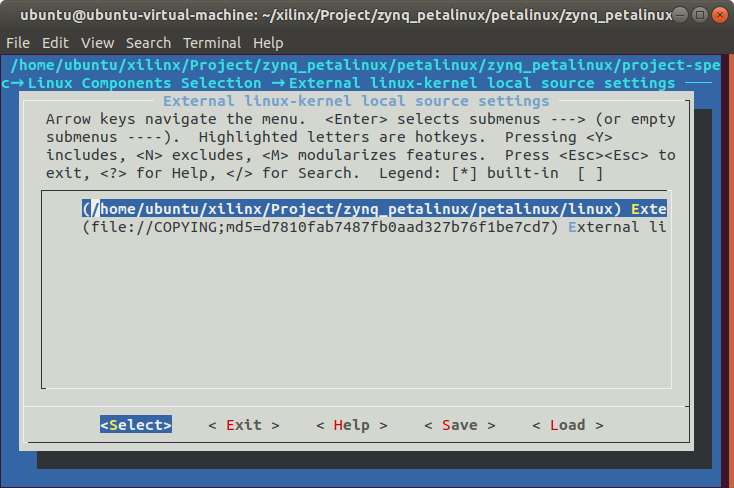
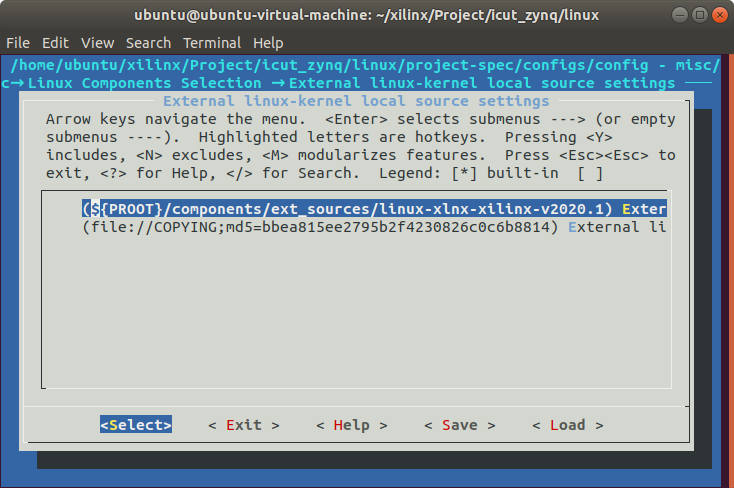
ZYNQ: Modify the petalinux note and correct some errors.

Changed region(s): [[0.1199, 0.3996, 0.8992, 0.4918], [0.03, 0.0, 0.9292, 0.0615], [0.3597, 0.123, 0.9891, 0.1537]]

diff --git a/FPGA/Xilinx/ZYNQ/ZYNQ.md b/FPGA/Xilinx/ZYNQ/ZYNQ.md
@@ -403,7 +403,7 @@ set_property IOSTANDARD LVCMOS33 [get_ports sys_rst_n]
 #### 集成逻辑分析仪
   Vivado中有一个集成逻辑分析仪（Integrated Logic Analyzer，ILA），以IP核的形式加入到用户设计中。Vivado提供了三种具有不同集成层次的插入ILA方法，以满足不同用户的需求。
 1. HDL实例化调试探针流程：直接在HDL代码中例化一个ILA IP核。这是集成层次最高的方法，但灵活性较差，在调试完毕后，需要在HDL源码中删除ILA IP核。
-2. 网表插入调试探针流程：在综合后的网表中，分别标记要进行调试观察的各个信号，然后通过一个简单的”Setup Debug“向导来设置各个探针和ILA IP核的工作参数，然后工具会根据用户设置的参数，自动地生成各个ILA IP核。用户不需要修改HDL源码，并能单独控制每个ILA IP核以及每个探针，具有很大的灵活性。用户设置的调试信息会议Tcl XDC调试命令的形式保存到XDC约束文件中，在实现阶段，Vivado会读取这些XDC调试命令，并在布局布线时加入这些ILA IP核。在调试完毕后，用户可以自综合后的网表中删除ILA IP核，或者在XDC文件中删除调试命令。
+2. 网表插入调试探针流程：在综合后的网表中，分别标记要进行调试观察的各个信号，然后通过一个简单的”Setup Debug“向导来设置各个探针和ILA IP核的工作参数，然后工具会根据用户设置的参数，自动地生成各个ILA IP核。用户不需要修改HDL源码，并能单独控制每个ILA IP核以及每个探针，具有很大的灵活性。用户设置的调试信息会以Tcl XDC调试命令的形式保存到XDC约束文件中，在实现阶段，Vivado会读取这些XDC调试命令，并在布局布线时加入这些ILA IP核。在调试完毕后，用户可以自综合后的网表中删除ILA IP核，或者在XDC文件中删除调试命令。
 3. 手动在XDC约束文件中书写对应的Tcl XDC调试命令，之后同上。这种方法集成层次最低，一般不会使用。
 
 ##### HDL实例化调试探针流程
@@ -446,6 +446,7 @@ ila_0 u_ila_0 (
 一. 在综合后的网表中手动选择网络并点击”mark_debug“按钮，将要进行调试观察的各个信号标记”mark_debug“属性，然后通过”Setup Debug“向导来设置ILA IP核的参数，最后工具会根据参数来自动创建ILA IP核。
 二. 在综合前在HDL代码中为想要观察的reg或wire信号添加”Mark Debug“综合属性，紧挨在变量声明的前面使用”(\* mark_debug = "true" \*)“标记，这些信号不会被工具优化掉。
   若使用第二种方法添加”Mark Debug“属性，则修改代码如下：
+
 ```verilog
 module led_twinkle(
     input sys_clk,
@@ -459,7 +460,7 @@ module led_twinkle(
   点击Flow Navigation-->SYNTHESIS-->Run Synthesis进行综合，完成后点击Open Synthesized Design打开综合后的设计窗口，点击右上角的窗口布局选择器，选择“Debug”窗口布局。此时，Vivado打开了Netlist子窗口、Schematic子窗口以及Debug子窗口，如下图所示：
 ![Synthesized Design ILA](pic/Synthesized Design ILA.PNG)
 
-  Netlist子窗口和Schematic子窗口都可以用于标记要进行观察的信号，Debug子窗口用于显示并设置ILA IP核的各个参数。在Debug子窗口中又包含Debug Cores核Debug Nets两个选项卡，用于显示所有标记为”Mark Debug“的信号。Debug Cores以ILA IP核为中心，所有标记为”Mark Debug“的信号并且已经被分配到ILA探针的信号都会被显示在各个ILA IP核的视图树下，否则显示在Unassigned Debug Nets下。Debug Nets不显示ILA IP核，所有标记为”Mark Debug“的信号并且已经被分配到ILA探针的信号都会被显示Assigned Nets下，否则显示在Unassigned Debug Nets下。在HDL代码中已经添加了”Mark Debug“属性的信号会自动出现在Unassigned Debug Nets下。
+  Netlist子窗口和Schematic子窗口都可以用于标记要进行观察的信号，Debug子窗口用于显示并设置ILA IP核的各个参数。在Debug子窗口中又包含Debug Cores和Debug Nets两个选项卡，用于显示所有标记为”Mark Debug“的信号。Debug Cores以ILA IP核为中心，所有标记为”Mark Debug“的信号并且已经被分配到ILA探针的信号都会被显示在各个ILA IP核的视图树下，否则显示在Unassigned Debug Nets下。Debug Nets不显示ILA IP核，所有标记为”Mark Debug“的信号并且已经被分配到ILA探针的信号都会被显示Assigned Nets下，否则显示在Unassigned Debug Nets下。在HDL代码中已经添加了”Mark Debug“属性的信号会自动出现在Unassigned Debug Nets下。
 
   若之前没有使用第二种方法添加”Mark Debug“属性，则需要手动标记要进行观察的信号。在Netlists子窗口或Schematic子窗口中，右键要添加标记的网络（此时另一个子窗口中也会自动选中此网络）并选择Mark Debug（或Unmark Debug取消标记），如下图所示：
 ![Mark Debug ILA](pic/Mark Debug ILA.png)
@@ -488,7 +489,7 @@ module led_twinkle(
   打开led_twinkle.xdc，可以看到增加了一些用于debug的约束命令。接下来就可以实现设计，Vivado会读取这些约束，并按照这些命令的参数来自动加入ILA IP核。最后生成比特流，下载并观察信号。
 ![led_twinkle.xdc ILA](pic/led_twinkle.xdc ILA.PNG)
 
-  调试完毕后，可以删除led_twinkle.v源代码中信号的Mark Debug属性核XDC文件中包含的Tcl调试命令。
+  调试完毕后，可以删除led_twinkle.v源代码中信号的Mark Debug属性和XDC文件中包含的Tcl调试命令。
 
 #### 仿真
   根据下图所示的FPGA设计流程，在设计输入之后、设计综合之前进行RTL仿真，成为综合前仿真，也称为前仿真或功能仿真，主要验证电路的功能是否符合设计要求，不考虑电路门延迟和线延迟。在完成设计代码编写后，直接对HDL代码进行仿真，检测源代码是否符合功能要求，可以比较直观的观察波形的变化，在设计的最初阶段发现问题。
@@ -1264,6 +1265,7 @@ void timer_intr_handler(void *callback_ref)
 }
 ```
 
+##### TTC
 ##### XADC
   ZYNQ PL端有一个数模混合模块XADC，包含两个12位ADC（转换速率可以达到1MSPS）、一个模拟多路复用器（支持最多17路外部模拟输入信号的测量，且支持单极、双极和差分等信号类型）、片上温度和电压传感器（可以测量芯片工作时的温度和供电电压）。XADC提供了多种接口供外部模块访问，PL中有JTAG和DRP（Dynamic Reconfiguration Port）接口，PS中有PS-XADC接口（同PL-JTAG一样使用串行路径，速度慢，但不需要对PL编程）或通过M_AXI_GP接口（使用DRP的并行路径，速度快，但需要在PL中调用AXI XADC IP核）。PL-JTAG和PS-XADC不能同时使用，但它们都可以和DRP接口并用。
 ![XADC Module System Viewpoint](pic/XADC Module System Viewpoint.PNG)
@@ -2322,7 +2324,7 @@ set_property PACKAGE_PIN L14 [get_ports TMDS_0_tmds_clk_p]
 ##### FreeRTOS
 
 ##### LwIP
-  PS拥有两个千兆以太网控制器（GEM），实现了标准10/100/1000Mb/s以太网MAC，使用MDIO接口管理PHY芯片，通过MIO连接到PS端的PHY芯片时使用GMII接口，通过EMIO连接到PL端的PHY芯片时使用RGMII接口。
+  PS拥有两个千兆以太网控制器（GEM），实现了标准10/100/1000Mb/s以太网MAC，使用MDIO接口管理PHY芯片，通过MIO连接到PS端的PHY芯片时使用RGMII接口，通过EMIO连接到PL端的PHY芯片时使用GMII接口。
 
 ###### 硬件设计
   参考嵌入式开发流程新建Vivado工程，名称为lwip，添加ZYNQ Processing System，配置DDR3、UART和ENET，移除PL部分接口，点击OK完成。
@@ -2341,14 +2343,14 @@ set_property PACKAGE_PIN L14 [get_ports TMDS_0_tmds_clk_p]
   编译、下载、调试，使用TCP客户端向开发板发送信息，开发板将原封不动发送回去。
 
 ##### 自定义IP核
-  IP核的接口（Interface）一个或多个端口（Ports）组成，不同类型的信号需要不同的接口。
+  IP核的接口（Interface）由一个或多个端口（Ports）组成，不同类型的信号需要不同的接口。
   在主页Tasks下点击Manage IP-->New IP Location或菜单栏File-->IP-->New Location，在弹出的窗口点击Next，设置工程路径，其他先不管。
 ![New IP Location](pic/New IP Location.PNG)
 
   点击FInish完成，打开工程管理界面。
 ![IP Project Manager](pic/IP Project Manager.PNG)
 
-  点击菜单栏Tools-->Create and Package New IP打开创建的封装IP向导，点击Next。接下来可以选择封装IP或者创建一个带AXI4接口的IP核。
+  点击菜单栏Tools-->Create and Package New IP打开创建和封装新IP向导，点击Next。接下来可以选择封装IP或者创建一个带AXI4接口的IP核。
 ![Create a new AXI4 peripheral](pic/Create a new AXI4 peripheral.PNG)
 
 ###### 封装IP
@@ -2376,7 +2378,7 @@ set_property PACKAGE_PIN L14 [get_ports TMDS_0_tmds_clk_p]
   由于最开始错误地识别了顶层模块，多出了reset和paralell_clk，右键选择Remove Interface移除，此时左侧红色感叹号变成黄色。另外工具错误地将tmds_clk_n和tmds_clk_p识别成了两个时钟接口，需要移除，此时左侧黄色感叹号也消失了。
 ![Ports and Interfaces new DVI_TX](pic/Ports and Interfaces new DVI_TX.PNG)
 
-  右键pclk选择Add Bus Interface，弹出Add Interface窗口，点击General页面Interface Definition右侧...按钮，搜索clock，选中Signal下的clock_ctrl，点击OK。
+  右键pclk选择Add Bus Interface，弹出Add Interface窗口，点击General页面Interface Definition右侧...按钮，搜索clock，选中Signal下的clock_rtl，点击OK。
 ![Interface Definition Chooser DVI_TX](pic/Interface Definition Chooser DVI_TX.PNG)
 
   设置接口名称为pclk，模式为slave，表示输入信号。
@@ -2605,16 +2607,13 @@ A[BootROM]-->B[FSBL]
 |petalinux-boot|启动系统以测试|
 
 #### 使用PetaLinux定制系统
-##### 使用Vivado创建硬件平台
-##### 使用PetaLinux创建系统工程
-###### 创建PetaLinux工程
+##### 创建PetaLinux工程
   创建PetaLinux工程zynq_petalinux，-t指定创建类型为project，--template指定平台模板为zynq，-n指定工程名称。
 ```shell
-mkdir zynq_petalinux
 petalinux-create -t project --template zynq -n zynq_petalinux
 ```
 
-###### 配置PetaLinux工程
+##### 配置PetaLinux工程
   首次配置PetaLinux工程时或硬件改动后，需要导入XSA文件，--get-hw_description指定XSA文件所在位置。后面想要重新配置，只需输入petalinux-config即可。
 ```shell
 cd zynq_petalinux
@@ -2687,7 +2686,7 @@ wget -c -r -np -nH -R index.html -P /home/ubuntu/xilinx/Project/zynq_petalinux/p
 
   设置完成后保存退出，PetaLinux会根据Auto Config Settings和Subsystem AUTO Hardware Settings来解析硬件描述文件，以获取更新设备树、u-boot配置文件和内核配置文件所需的硬件信息。
 
-###### 配置Linux内核
+##### 配置Linux内核
 ```shell
 petalinux-config -c kernel
 ```
@@ -2695,7 +2694,7 @@ petalinux-config -c kernel
   等待一段时间后，弹出Linux内核配置界面，保持默认，直接保存退出。
 ![Kernel Configuration](pic/Kernel Configuration.png)
 
-###### 配置Linux根文件系统
+##### 配置Linux根文件系统
 ```shell
 petalinux-config -c rootfs
 ```
@@ -2703,9 +2702,10 @@ petalinux-config -c rootfs
   弹出根文件系统配置界面，PetaLinux RootFS Settings可以用来设置root用户密码，默认为root。
 ![rootfs configuration](pic/rootfs configuration.png)
 
-###### 配置设备树文件
-  软件自动在components/plnx_workspace/device-tree/device-tree/下生成了默认的设备树，用户不需要修改，其中system-top.dts是顶层设备树（包含了zynq-7000.dtsi、pl.dtsi、pcw.dtsi和system-user.dtsi以及一些基础硬件信息），zynq-7000.dtsi是根据硬件平台文件XSA自动配置的设备树（包含了大部分设备信息），pl.dtsi是与pl相关的设备树，pcw.dtsi（TODO）。
-  在project-spec/meta-user/recipes-bsp/device-tree/files/system-user.dtsi是用户设备树，可以自定义一些设备，如果重复定义了设备将会覆盖默认的配置。打开该文件，添加如下配置信息。
+##### 配置设备树文件
+  软件自动在components/plnx_workspace/device-tree/device-tree/下生成了默认的设备树，用户不需要修改，其中system-top.dts是顶层设备树（包含了zynq-7000.dtsi、pl.dtsi、pcw.dtsi和system-user.dtsi以及一些基础硬件信息），zynq-7000.dtsi包含了一些设备的默认配置信息（不允许修改），pl.dtsi是与pl相关的设备树，pcw.dtsi（TODO）。
+  system-user.dtsi是用户设备树，在project-spec/meta-user/recipes-bsp/device-tree/files/下，可以自定义一些设备，如果重复定义了设备将会覆盖默认的配置。打开该文件，添加如下配置信息。
+
 ```c
 /include/ "system-conf.dtsi"
 
@@ -2828,7 +2828,7 @@ petalinux-config -c rootfs
 };
 ```
 
-###### 编译PetaLinux工程
+##### 编译PetaLinux工程
   编译整个PetaLinux工程，生成设备树DTB文件、FSBL文件、u-boot、kernel、启动脚本和根文件系统映像（images目录下）。
 ```shell
 petalinux-build
@@ -2857,7 +2857,7 @@ INFO: copy to TFTP-boot directory is not enabled !!
 
 ![petalinux-build files](pic/petalinux-build files.png)
 
-###### 制作BOOT.BIN启动文件
+##### 制作BOOT.BIN启动文件
   ZYNQ的启动文件BOOT.BIN一般包含FSBL文件、bitstream文件和u-boot文件。
 ```shell
 petalinux-package --boot --fsbl ./images/linux/zynq_fsbl.elf --fpga --u-boot --force
@@ -2880,7 +2880,7 @@ INFO: Generating Zynq binary package BOOT.BIN...
 INFO: Binary is ready.
 ```
 
-###### 制作SD启动卡
+##### 制作SD启动卡
   使用fdisk命令为SD卡创建分区，第一个分区为FAT32格式，大小为500M，设为引导分区；剩下的空间作为第二分区，ext4格式。
 ```shell
 sudo fdisk /dev/sdb
@@ -2970,7 +2970,7 @@ sudo mkfs.ext4 -L rootfs /dev/sdb2
 
   挂载分区，并拷贝boot.scr、BOOT.BIN和image.ub到BOOT分区。
 
-###### 启动测试
+##### 启动测试
 * QEMU模拟启动
   首先使用petalinux-package命令打包预编译镜像。
 ```shell
@@ -2998,6 +2998,99 @@ PetaLinux 2020.1 zynq_petalinux /dev/ttyPS0
 zynq_petalinux login:
 ```
 
+#### Linux系统移植
+  一个完整的Linux系统包含U-Boot、kernel和rootfs，使用PetaLinux搭建Linux系统时，隐藏了很多细节，不利于学习，还需要手动移植，才能更好地理解Linux系统的工作原理。
+
+##### U-Boot移植
+  参考笔记[U-Boot](../../../U-Boot/U-Boot.md)，学习相关知识。
+  半导体厂商[Xilinx](https://github.com/Xilinx)提供了[u-boot-xlnx](https://github.com/Xilinx/u-boot-xlnx)，在U-Boot官方源码的基础上，添加对其芯片的支持并维护（最好使用与PetaLinux对应的版本，否则可能出现一些问题，本文使用u-boot-xlnx-xilinx-v2020.1版本）。
+  开发板厂商[正点原子](https://gitee.com/greatdream)提供了[ZYNQ-uboot](https://gitee.com/greatdream/uboot.git)，在Xilinx的基础上，对其开发板进行了适配，如显示驱动。
+  PetaLinux默认使用官方U-Boot源码（u-boot-xlnx），可以在Linux Componets Selection下改为remote或ext-local-src。
+![PetaLinux U-Boot Source Selection](pic/PetaLinux U-Boot Source Selection.png)
+
+**remote**
+  使用远程U-Boot git仓库的源码。
+  选择remote后，在Linux Componets Selection界面会出现一项Remote u-boot settings，内容如下：
+
+* Remote u-boot git URL
+  远程git仓库地址，格式如下：
+```shell
+git://github.com/Xilinx/u-boot-xlnx.git;protocol=https
+```
+
+  注意：URL前面的“https”要改成“git”，然后用“protocol=https”指定协议类型。
+
+* Remote u-boot git TAG/Commit ID
+  指定远程git仓库中的tag或Commit ID，必须设置为下面中的一个：
+
+1. 指向当前HEAD。
+```shell
+{$AUTOREV}
+```
+
+2. 指向某一tag。
+```shell
+tag/mytag
+```
+
+3. 指向某一commit id。
+```shell
+commit id sha key
+```
+
+* Remote u-boot git BRANCH
+  选择远程git仓库的分支。
+
+* Remote u-boot license checksum
+  设置远程git仓库的许可证信息（许可证文件为U-Boot源码根目录下的README，使用md5sum命令计算其md5值），如果没有编译时进行检查会报错，格式如下：
+```shell
+file://README;md5=caafa7f3ca54deaa3a087f3b5345ba8e
+```
+
+  最终设置如图所示：
+![Remote u-boot settings](pic/Remote u-boot settings.png)
+
+**ext-local-src**
+  使用本地的源码：首先下载U-Boot源码，然后在components下新建ext_sources文件夹，解压U-Boot源码到u-boot-xlnx-xilinx-v2020.1文件夹下。
+  选择ext-local-src后，在Linux Componets Selection界面会出现一项External  u-boot source settings，内容如下：
+
+* External u-boot local source path
+  指定本地U-Boot源码路径，必须使用绝对路径，否则会报错。也可以使用“${PROOT}”环境变量，表示当前工程路径，后面再加上相对工程内的路径，格式如下：
+```shell
+${PROOT}/components/ext_sources/u-boot-xlnx-xilinx-v2020.1
+```
+
+  最终设置如图所示：
+![External u-boot local source settings](pic/External u-boot local source settings.png)
+
+  执行“petalinux-build -c u-boot”编译，完成后会在images/linux目录下生成u-boot.elf文件。然后执行“petalinux-package --boot --fsbl --fpga --u-boot --force”将u-boot.elf打包到ZYNQ的启动文件BOOT.BIN中，将该文件拷贝到SD卡的第一个FAT32分区，插到开发板并从SD卡启动。
+
+**注：**
+
+* 编译时会在“build/tmp/work/zynq_generic-xilinx-linux-gnueabi/u-boot-xlnx/v2020.01-xilinx-v2020.1+git999-r0/u-boot-xlnx-v2020.01-xilinx-v2020.1+git999”目录下生成.config文件，是U-Boot最终的配置文件。
+
+##### Kernel移植
+  半导体厂商[Xilinx](https://github.com/Xilinx)提供了[linux-xlnx](https://github.com/Xilinx/linux-xlnx.git)，在Kernel官方源码的基础上，添加对其芯片的支持并维护（最好使用与PetaLinux对应的版本，否则可能出现一些问题，本文使用linux-xlnx-xilinx-v2020.1版本）。
+  开发板厂商[正点原子](https://gitee.com/greatdream)提供了[ZYNQ-linux](https://gitee.com/greatdream/linux.git)，在Xilinx的基础上，对其开发板进行了适配，如显示驱动。
+  PetaLinux默认使用官方Kernel源码（linux-xlnx），可以在Linux Componets Selection下改为remote或ext-local-src。
+  设置方法与U-Boot类似，只是最后设置内核许可证信息不同（许可证文件为内核源码根目录下的COPYING，使用md5sum命令计算其md5值），如果没有编译时进行检查会报错（do_populate_lic: QA Issue: linux-xlnx: The LIC_FILES_CHKSUM does not match），格式如下：
+
+```shell
+file://COPYING;md5=bbea815ee2795b2f4230826c0c6b8814
+```
+
+  最终设置如图所示：
+![Remote linux-kernel settings](pic/Remote linux-kernel settings.png)
+![External linux-kernel local source settings](pic/External linux-kernel local source settings.png)
+
+  修改了内核来源后，需要先清除之前的内核配置，默认的内核源码位于/home/ubuntu/xilinx/Project/zynq_petalinux/petalinux/zynq_petalinux/components/yocto/workspace/sources/linux-xlnx，执行以下命令会清空所有源码。
+```shell
+petalinux-build -c linux-xlnx -x reset
+```
+![petalinux-config -c kernel](pic/petalinux-config -c kernel.png)
+
+#### Linux驱动开发
+
 #### 使用Vitis开发Linux应用
   创建平台项目zynq_petalinux_bsp，操作系统选择linux，点击Finish完成，编译。
 ![zynq_petalinux_bsp platform](pic/zynq_petalinux_bsp platform.png)
@@ -3013,17 +3106,8 @@ zynq_petalinux login:
 petalinux-config
 ```
 
-  修改Linux内核来源，可以选择remote并设置URL为远程仓库（[Xilinx](https://github.com/Xilinx)提供的[linux-xlnx](https://github.com/Xilinx/linux-xlnx.git)或[正点原子](https://gitee.com/greatdream)提供的[ZYNQ-linux](https://gitee.com/greatdream/linux.git)。也可以将源码下载到本地，然后选择ext-local-src并指定本地路径。另外需要设置内核许可证信息（许可证文件为内核源码根目录下的COPYING，使用md5sum命令计算其md5值），否则编译时进行检查会报错（do_populate_lic: QA Issue: linux-xlnx: The LIC_FILES_CHKSUM does not match），保存并退出。
-![External linux-kernel local source settings](pic/External linux-kernel local source settings.png)
-
-  修改u-boot来源，可以选择remote并设置URL为远程仓库（[Xilinx](https://github.com/Xilinx)提供的[u-boot-xlnx](https://github.com/Xilinx/u-boot-xlnx)或[正点原子](https://gitee.com/greatdream)提供的[ZYNQ-uboot](https://gitee.com/greatdream/uboot.git)）。也可以将源码下载到本地，然后选择ext-local-src并指定本地路径。另外还需要设置u-boot许可证信息（许可证文件为u-boot源码根目录下的README，使用md5sum命令计算其md5值），否则编译时进行检查会报错，保存并退出。
-![External u-boot local source settings](pic/External u-boot local source settings.png)
-
-  修改了内核来源后，需要先清除之前的内核配置，默认的内核源码位置位于/home/ubuntu/xilinx/Project/zynq_petalinux/petalinux/zynq_petalinux/components/yocto/workspace/sources/linux-xlnx，执行以下命令会清空所有源码。
-```shell
-petalinux-build -c linux-xlnx -x reset
-```
-![petalinux-config -c kernel](pic/petalinux-config -c kernel.png)
+  参考[U-Boot移植](# U-Boot移植)，使用原子提供的alientek-uboot-2018.01-xlnx-v2018.3。
+  参考[Kernel移植](# Kernel移植)，使用原子提供的alientek-linux-4.14.0-xlnx-v2018.3。
 
   重新配置内核，进入Device Drivers-->Graphics support菜单，选择显示驱动为原子提供的选项。
 ```shell
@@ -3032,7 +3116,7 @@ petalinux-config -c kernel
 ![Kernel Graphics support](pic/Kernel Graphics support.png)
 
   在开始编译之前，还需要做一些修改，防止出错：
-* 1. 在“/ project-spec/meta-user/recipes-kernel/linux/ linux-xlnx\_%.bbappend”文件内加入KERNEL_VERSION_SANITY_SKIP="1"，避免由于PetaLinux版本和内核版本不匹配而报错。
+* 1. 在“/ project-spec/meta-user/recipes-kernel/linux/linux-xlnx\_%.bbappend”文件内加入KERNEL_VERSION_SANITY_SKIP="1"，避免由于PetaLinux版本和内核版本不匹配而报错。
   注意：若petalinux-config--> DTG 配置保持默认的 template 选项，工具不会自动新建 project-spec/meta-user/recipes-kernel/linux 文件夹，我们需要手动创建 linux-xlnx\_%.bbappend文件并添加如下内容。
 ```shell
 FILESEXTRAPATHS_prepend := "${THISDIR}/files:"
@@ -3310,7 +3394,10 @@ current_time *= REFACTOR_TO_US; // Convert to us
 * [使用Petalinux定制Linux系统](https://www.cnblogs.com/Mike2019/p/14293018.html)
 * [ZYNQ #0 petalinux的使用与工程建立](https://blog.csdn.net/sements/article/details/88921275)
 * [XILINX 文档门户](https://docs.xilinx.com/home)
+* [Xilinx Wiki](https://xilinx-wiki.atlassian.net/wiki/spaces/A/overview?homepageId=18844350)
 * [Zynq的启动过程及加密](https://mbb.eet-china.com/forum/topic/74770_1_1.html)
 * [使用Xilinx XSCT工具进行烧录](https://blog.csdn.net/u013706212/article/details/120975147)
 * [xilinx zynq的fsbl阶段的调试](https://blog.csdn.net/suixintt/article/details/107211149?spm=1001.2014.3001.5506)
 * [ZYNQ开发系列——SDK输出串口选择以及打印函数print、printf、xil_printf的差别](https://blog.csdn.net/gzy0506/article/details/124085448)
+* [zynq或zynqmp通过emio和gmii to rgmii ip使用pl端以太网调试](https://blog.csdn.net/weixin_43969075/article/details/119872875)
+* [ZYNQ+linux网口调试笔记（2）PS-GEM1](https://www.jianshu.com/p/60386d0fd521)
